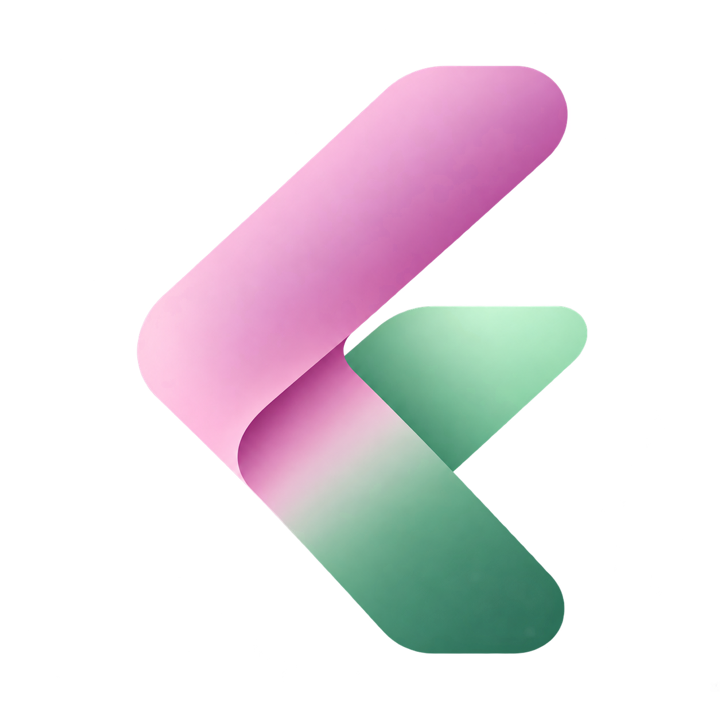
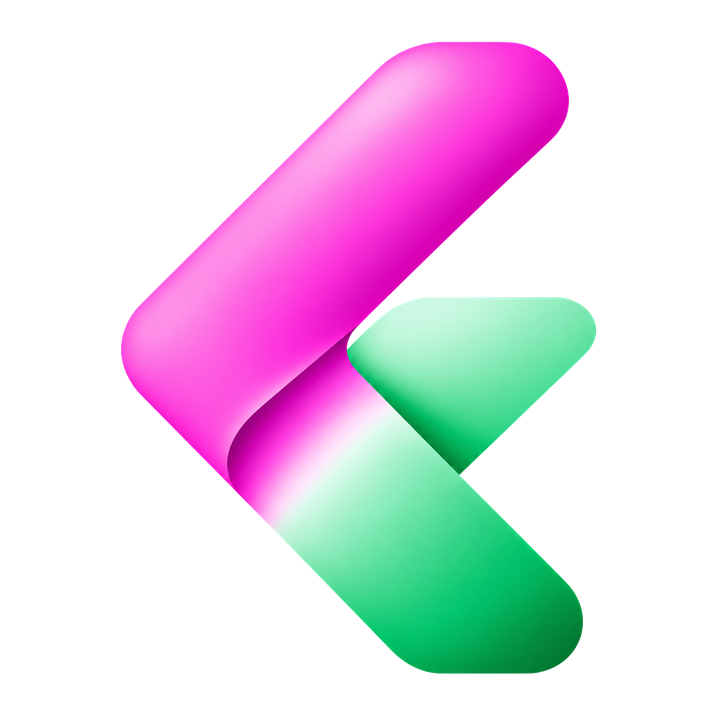
Use final product marks on product, invitation and preview surfaces

diff --git a/knowi/index.html b/knowi/index.html
@@ -7,9 +7,9 @@
 <meta name="twitter:title" content="KNOWI – Wissen testen, lernen und vergleichen">
 <meta name="twitter:description" content="Teste dein Wissen, lerne dazu und vergleiche dich mit anderen.">
 <meta name="twitter:image:alt" content="KNOWI – Quiz und Wissen.">
-<link rel="apple-touch-icon" href="../assets/images/knowi-mark.png">
-</head><body>
-<a class="skip-link" href="#main">Zum Inhalt</a><header class="site-header"><nav class="nav shell" aria-label="Hauptnavigation"><a class="brand" href="./">KNOWI</a><button class="menu-button" type="button" aria-expanded="false" aria-controls="nav-links">Menü</button><ul class="nav-links" id="nav-links"><li><a href="../#apps" aria-current="page">Apps</a></li><li><a href="../support/">Support</a></li><li><a href="../privacy/">Datenschutz</a></li><li><a href="../imprint/">Impressum</a></li></ul></nav></header>
+
+<link rel="apple-touch-icon" href="/assets/images/knowi-touch.png"></head><body>
+<a class="skip-link" href="#main">Zum Inhalt</a><header class="site-header"><nav class="nav shell" aria-label="Hauptnavigation"><a class="brand" href="./"><img src="../assets/images/knowi-mark.png" width="32" height="32" alt="">KNOWI</a><button class="menu-button" type="button" aria-expanded="false" aria-controls="nav-links">Menü</button><ul class="nav-links" id="nav-links"><li><a href="../#apps" aria-current="page">Apps</a></li><li><a href="../support/">Support</a></li><li><a href="../privacy/">Datenschutz</a></li><li><a href="../imprint/">Impressum</a></li></ul></nav></header>
 <main id="main"><section class="product-hero"><div class="shell product-layout"><div><p class="eyebrow">Quiz &amp; Wissen</p><h1>KNOWI</h1><p class="tagline">Wissen testen, lernen und mit anderen vergleichen.</p><p class="lead">KNOWI bringt Quizfragen, persönliche Lernfortschritte und spielerische Herausforderungen an einen Ort – für alle, die neugierig bleiben möchten.</p><div class="store-row" aria-label="Verfügbarkeit"><a class="button" href="https://apps.apple.com/us/app/knowi-quiz-wissen/id6817281226">Im App Store laden</a><a class="button" href="https://play.google.com/store/apps/details?id=de.jmapps.knowi">Bei Google Play laden</a></div></div><img class="product-mark" src="../assets/images/knowi-mark.png" width="720" height="720" decoding="async" fetchpriority="high" alt="KNOWI Bildmarke"></div></section>
 <section class="section feature-section"><div class="shell"><div class="section-heading"><h2>Entdecken und dranbleiben</h2><p>Kurze Runden, persönlicher Fortschritt und Wissen, das gemeinsam noch mehr Spaß macht.</p></div><div class="feature-grid"><article class="feature-card"><h3>Quiz &amp; Wissen</h3><p>Das eigene Wissen testen und dabei spielerisch Neues entdecken.</p></article><article class="feature-card"><h3>Daily Challenge</h3><p>Eine tägliche Herausforderung für eine kleine Portion Wissen zwischendurch.</p></article><article class="feature-card"><h3>Fortschritt</h3><p>Die eigene Entwicklung im Blick behalten und Erfolge sichtbar machen.</p></article><article class="feature-card"><h3>Freunde &amp; Duelle</h3><p>Wissen mit anderen vergleichen und gemeinsam Herausforderungen erleben.</p></article><article class="feature-card"><h3>Karteikarten</h3><p>Inhalte gezielt wiederholen und im eigenen Tempo festigen.</p></article><article class="feature-card"><h3>KNOWI Kids</h3><p>Ein kindgerechter Bereich für junge Wissensentdeckerinnen und -entdecker.</p></article></div></div></section><section class="section feature-section" aria-labelledby="gemeinsam-title"><div class="shell"><div class="section-heading"><p class="eyebrow">Vorschau auf KNOWI 1.4.1</p><h2 id="gemeinsam-title">Mehr zusammen machen</h2><p>Die nächste Version erweitert KNOWI um private Gruppen und einen verbesserten Karteikartenimport. Die Verfügbarkeit im Store folgt mit der Veröffentlichung von Version 1.4.1.</p></div><div class="feature-grid"><article class="feature-card"><h3>Gemeinsam</h3><p>In Lerngruppen Wissen teilen, zusammen quizzen, abstimmen oder eine Wichtelrunde organisieren. Ein persönlicher Einladungslink macht den Beitritt einfach.</p></article><article class="feature-card"><h3>Zufallsgenerator</h3><p>Namen ziehen, Reihenfolgen festlegen und Teams bilden – direkt in KNOWI.</p></article><article class="feature-card"><h3>Karteikarten importieren</h3><p>Eigene Lerninhalte vor dem Übernehmen prüfen, Fehler erkennen und passende Karten in deine Sammlung aufnehmen.</p></article></div></div></section></main>
-<footer class="site-footer"><div class="footer-inner shell"><div><a class="brand" href="./">KNOWI</a><div class="footer-meta">© <span data-current-year>2026</span> KNOWI</div></div><ul class="footer-links"><li><a href="../#apps">Apps</a></li><li><a href="../support/">Support</a></li><li><a href="../privacy/">Datenschutz</a></li><li><a href="../terms/">Nutzungsbedingungen</a></li><li><a href="../account-deletion/">Account löschen</a></li><li><a href="../imprint/">Impressum</a></li></ul></div></footer></body></html>
+<footer class="site-footer"><div class="footer-inner shell"><div><a class="brand" href="./"><img src="../assets/images/knowi-mark.png" width="32" height="32" alt="">KNOWI</a><div class="footer-meta">© <span data-current-year>2026</span> KNOWI</div></div><ul class="footer-links"><li><a href="../#apps">Apps</a></li><li><a href="../support/">Support</a></li><li><a href="../privacy/">Datenschutz</a></li><li><a href="../terms/">Nutzungsbedingungen</a></li><li><a href="../account-deletion/">Account löschen</a></li><li><a href="../imprint/">Impressum</a></li></ul></div></footer></body></html>

diff --git a/talumi/index.html b/talumi/index.html
@@ -7,9 +7,9 @@
 <meta name="twitter:title" content="TALUMI – Talk. Play. Connect.">
 <meta name="twitter:description" content="Gemeinsam reden, spielen und sich besser kennenlernen.">
 <meta name="twitter:image:alt" content="TALUMI – Gespräche und gemeinsame Momente.">
-<link rel="apple-touch-icon" href="../assets/images/talumi-mark.png">
-</head><body>
-<a class="skip-link" href="#main">Zum Inhalt</a><header class="site-header"><nav class="nav shell" aria-label="Hauptnavigation"><a class="brand" href="./">TALUMI</a><button class="menu-button" type="button" aria-expanded="false" aria-controls="nav-links">Menü</button><ul class="nav-links" id="nav-links"><li><a href="../#apps" aria-current="page">Apps</a></li><li><a href="../support/">Support</a></li><li><a href="../privacy/">Datenschutz</a></li><li><a href="../imprint/">Impressum</a></li></ul></nav></header>
+
+<link rel="apple-touch-icon" href="/assets/images/talumi-touch.png"></head><body>
+<a class="skip-link" href="#main">Zum Inhalt</a><header class="site-header"><nav class="nav shell" aria-label="Hauptnavigation"><a class="brand" href="./"><img src="../assets/images/talumi-mark.png" width="32" height="32" alt="">TALUMI</a><button class="menu-button" type="button" aria-expanded="false" aria-controls="nav-links">Menü</button><ul class="nav-links" id="nav-links"><li><a href="../#apps" aria-current="page">Apps</a></li><li><a href="../support/">Support</a></li><li><a href="../privacy/">Datenschutz</a></li><li><a href="../imprint/">Impressum</a></li></ul></nav></header>
 <main id="main"><section class="product-hero"><div class="shell product-layout"><div><p class="eyebrow">Talk. Play. Connect.</p><h1>TALUMI</h1><p class="tagline">Gemeinsam reden, spielen und sich besser kennenlernen.</p><p class="lead">TALUMI schafft Raum für gute Gespräche und gemeinsame Momente – beim Date, mit dem Partner, unter Freunden, in der Gruppe oder unterwegs auf Reisen.</p><div class="store-row" aria-label="Verfügbarkeit"><a class="button" href="https://apps.apple.com/us/app/talumi-gemeinsam-reden/id6817282136">Im App Store laden</a><a class="button" href="https://play.google.com/store/apps/details?id=de.jmapps.talumi">Bei Google Play laden</a></div></div><img class="product-mark" src="../assets/images/talumi-mark.png" width="720" height="720" decoding="async" fetchpriority="high" alt="TALUMI Bildmarke"></div></section>
 <section class="section feature-section"><div class="shell"><div class="section-heading"><h2>Momente, die verbinden</h2><p>Gesprächsimpulse, soziale Spiele und gemeinsame Runden für unterschiedliche Situationen.</p></div><div class="feature-grid"><article class="feature-card"><h3>Kennenlernen</h3><p>Leichte Impulse, um auf natürliche Weise ins Gespräch zu kommen.</p></article><article class="feature-card"><h3>Tiefer reden</h3><p>Fragen, die neue Perspektiven öffnen und Gespräche vertiefen.</p></article><article class="feature-card"><h3>Gruppe &amp; Party</h3><p>Gemeinsame Spiele und Gesprächsrunden für Freunde und Gruppen.</p></article><article class="feature-card"><h3>Unterwegs &amp; auf Reisen</h3><p>Ideen für Wartezeiten, lange Fahrten und besondere Reiseerlebnisse.</p></article><article class="feature-card"><h3>Gemeinsam verbinden</h3><p>Mit Talumi Together gemeinsame Runden erleben und näher zusammenfinden.</p></article></div></div></section></main>
-<footer class="site-footer"><div class="footer-inner shell"><div><a class="brand" href="./">TALUMI</a><div class="footer-meta">© <span data-current-year>2026</span> TALUMI</div></div><ul class="footer-links"><li><a href="../#apps">Apps</a></li><li><a href="../support/">Support</a></li><li><a href="../privacy/">Datenschutz</a></li><li><a href="../terms/">Nutzungsbedingungen</a></li><li><a href="../account-deletion/">Account löschen</a></li><li><a href="../imprint/">Impressum</a></li></ul></div></footer></body></html>
+<footer class="site-footer"><div class="footer-inner shell"><div><a class="brand" href="./"><img src="../assets/images/talumi-mark.png" width="32" height="32" alt="">TALUMI</a><div class="footer-meta">© <span data-current-year>2026</span> TALUMI</div></div><ul class="footer-links"><li><a href="../#apps">Apps</a></li><li><a href="../support/">Support</a></li><li><a href="../privacy/">Datenschutz</a></li><li><a href="../terms/">Nutzungsbedingungen</a></li><li><a href="../account-deletion/">Account löschen</a></li><li><a href="../imprint/">Impressum</a></li></ul></div></footer></body></html>

diff --git a/talumi/invite/index.html b/talumi/invite/index.html
@@ -1,4 +1,4 @@
-<!doctype html><html lang="de"><head><meta charset="utf-8"><meta name="viewport" content="width=device-width, initial-scale=1"><meta name="referrer" content="no-referrer"><title>Eine Einladung zu TALUMI</title><link rel="canonical" href="https://jm-apps.de/talumi/invite/"><meta name="description" content="Eine persönliche Einladung, öffentliche Fragen mit TALUMI zu entdecken."><meta property="og:title" content="Eine Einladung zu TALUMI"><meta property="og:description" content="Öffne die geteilten Fragen in der App."><meta property="og:url" content="https://jm-apps.de/talumi/invite/"><meta name="robots" content="noindex"><meta name="apple-itunes-app" content="app-id=6817282136"><meta property="og:image" content="https://jm-apps.de/assets/images/talumi-mark.png"><link rel="stylesheet" href="/talumi/gruppe/invitation.css?v=2"><script src="/assets/js/invitation-downloads.js" defer></script><script src="/assets/js/referral.js" defer></script></head><body><main>
+<!doctype html><html lang="de"><head><meta charset="utf-8"><meta name="viewport" content="width=device-width, initial-scale=1"><meta name="referrer" content="no-referrer"><title>Eine Einladung zu TALUMI</title><link rel="canonical" href="https://jm-apps.de/talumi/invite/"><meta name="description" content="Eine persönliche Einladung, öffentliche Fragen mit TALUMI zu entdecken."><meta property="og:title" content="Eine Einladung zu TALUMI"><meta property="og:description" content="Öffne die geteilten Fragen in der App."><meta property="og:url" content="https://jm-apps.de/talumi/invite/"><meta name="robots" content="noindex"><meta name="apple-itunes-app" content="app-id=6817282136"><meta property="og:image" content="https://jm-apps.de/assets/images/talumi-mark.png"><link rel="stylesheet" href="/talumi/gruppe/invitation.css?v=2"><script src="/assets/js/invitation-downloads.js" defer></script><script src="/assets/js/referral.js" defer></script><link rel="icon" type="image/png" href="/assets/images/talumi-mark.png"><link rel="apple-touch-icon" href="/assets/images/talumi-touch.png"></head><body><main>
 <img class="brand" src="/assets/images/talumi-mark.png" alt="TALUMI" width="84" height="84">
 <p class="eyebrow">GEMEINSAM MIT TALUMI</p><h1>Du bist eingeladen.</h1>
 <section aria-label="Deine Einladung"><h2>Kommt ins Gespräch.</h2>

diff --git a/knowi/invite/index.html b/knowi/invite/index.html
@@ -1,4 +1,4 @@
-<!doctype html><html lang="de"><head><meta charset="utf-8"><meta name="viewport" content="width=device-width, initial-scale=1"><meta name="referrer" content="no-referrer"><title>Eine Einladung zu KNOWI</title><link rel="canonical" href="https://jm-apps.de/knowi/invite/"><meta name="description" content="Eine persönliche Einladung, öffentliche Fragen mit KNOWI zu entdecken."><meta property="og:title" content="Eine Einladung zu KNOWI"><meta property="og:description" content="Öffne die geteilten Fragen in der App."><meta property="og:url" content="https://jm-apps.de/knowi/invite/"><meta name="robots" content="noindex"><meta name="apple-itunes-app" content="app-id=6817281226"><meta property="og:image" content="https://jm-apps.de/assets/images/knowi-mark.png"><link rel="stylesheet" href="/knowi/gruppe/invitation.css?v=2"><script src="/assets/js/invitation-downloads.js" defer></script><script src="/assets/js/referral.js" defer></script></head><body><main>
+<!doctype html><html lang="de"><head><meta charset="utf-8"><meta name="viewport" content="width=device-width, initial-scale=1"><meta name="referrer" content="no-referrer"><title>Eine Einladung zu KNOWI</title><link rel="canonical" href="https://jm-apps.de/knowi/invite/"><meta name="description" content="Eine persönliche Einladung, öffentliche Fragen mit KNOWI zu entdecken."><meta property="og:title" content="Eine Einladung zu KNOWI"><meta property="og:description" content="Öffne die geteilten Fragen in der App."><meta property="og:url" content="https://jm-apps.de/knowi/invite/"><meta name="robots" content="noindex"><meta name="apple-itunes-app" content="app-id=6817281226"><meta property="og:image" content="https://jm-apps.de/assets/images/knowi-mark.png"><link rel="stylesheet" href="/knowi/gruppe/invitation.css?v=2"><script src="/assets/js/invitation-downloads.js" defer></script><script src="/assets/js/referral.js" defer></script><link rel="icon" type="image/png" href="/assets/images/knowi-mark.png"><link rel="apple-touch-icon" href="/assets/images/knowi-touch.png"></head><body><main>
 <img class="brand" src="/assets/images/knowi-mark.png" alt="KNOWI" width="84" height="84">
 <p class="eyebrow">GEMEINSAM MIT KNOWI</p><h1>Du bist eingeladen.</h1>
 <section aria-label="Deine Einladung"><h2>Teste dein Wissen.</h2>

diff --git a/knowi/oeffnen/index.html b/knowi/oeffnen/index.html
@@ -1,4 +1,4 @@
-<!doctype html><html lang="de"><head><meta charset="utf-8"><meta name="viewport" content="width=device-width, initial-scale=1"><meta name="referrer" content="no-referrer"><title>Eine Einladung zu KNOWI</title><link rel="canonical" href="https://jm-apps.de/knowi/oeffnen/"><meta name="description" content="Eine persönliche Einladung, öffentliche Fragen mit KNOWI zu entdecken."><meta property="og:title" content="Eine Einladung zu KNOWI"><meta property="og:description" content="Öffne die geteilten Fragen in der App."><meta property="og:url" content="https://jm-apps.de/knowi/oeffnen/"><meta name="robots" content="noindex"><meta name="apple-itunes-app" content="app-id=6817281226"><meta property="og:image" content="https://jm-apps.de/assets/images/knowi-mark.png"><link rel="stylesheet" href="/knowi/gruppe/invitation.css?v=2"><script src="/assets/js/invitation-downloads.js" defer></script><script src="open.js" defer></script></head><body><main>
+<!doctype html><html lang="de"><head><meta charset="utf-8"><meta name="viewport" content="width=device-width, initial-scale=1"><meta name="referrer" content="no-referrer"><title>Eine Einladung zu KNOWI</title><link rel="canonical" href="https://jm-apps.de/knowi/oeffnen/"><meta name="description" content="Eine persönliche Einladung, öffentliche Fragen mit KNOWI zu entdecken."><meta property="og:title" content="Eine Einladung zu KNOWI"><meta property="og:description" content="Öffne die geteilten Fragen in der App."><meta property="og:url" content="https://jm-apps.de/knowi/oeffnen/"><meta name="robots" content="noindex"><meta name="apple-itunes-app" content="app-id=6817281226"><meta property="og:image" content="https://jm-apps.de/assets/images/knowi-mark.png"><link rel="stylesheet" href="/knowi/gruppe/invitation.css?v=2"><script src="/assets/js/invitation-downloads.js" defer></script><script src="open.js" defer></script><link rel="icon" type="image/png" href="/assets/images/knowi-mark.png"><link rel="apple-touch-icon" href="/assets/images/knowi-touch.png"></head><body><main>
 <img class="brand" src="/assets/images/knowi-mark.png" alt="KNOWI" width="84" height="84">
 <p class="eyebrow">GEMEINSAM MIT KNOWI</p><h1>Du bist eingeladen.</h1>
 <section aria-label="Deine Einladung"><h2 id="content-title">Weiter mit KNOWI</h2>

diff --git a/talumi/join/index.html b/talumi/join/index.html
@@ -14,7 +14,7 @@
 <link rel="icon" href="/assets/images/talumi-mark.png" type="image/png">
 <meta name="twitter:card" content="summary"><meta name="twitter:title" content="Du bist eingeladen · TALUMI"><meta name="twitter:description" content="Gemeinsam spielen und ins Gespräch kommen."><meta name="twitter:image" content="https://jm-apps.de/assets/images/talumi-mark.png">
 <meta property="og:image:alt" content="TALUMI"><link rel="stylesheet" href="../gruppe/invitation.css?v=3"><script src="join.js?v=3" defer></script>
-</head>
+<link rel="apple-touch-icon" href="/assets/images/talumi-touch.png"></head>
 <body><main>
 <img class="brand" src="https://jm-apps.de/assets/images/talumi-mark.png" alt="TALUMI" width="84" height="84">
 <p class="eyebrow">GEMEINSAM MIT TALUMI</p><h1>Du bist eingeladen.</h1>

diff --git a/talumi/gruppe/index.html b/talumi/gruppe/index.html
@@ -14,7 +14,7 @@
 <link rel="icon" href="/assets/images/talumi-mark.png" type="image/png">
 <meta name="twitter:card" content="summary"><meta name="twitter:title" content="Du bist eingeladen · TALUMI"><meta name="twitter:description" content="Gemeinsam wichteln und Freude schenken."><meta name="twitter:image" content="https://jm-apps.de/assets/images/talumi-mark.png">
 <meta property="og:image:alt" content="TALUMI"><link rel="stylesheet" href="invitation.css?v=3"><script src="invitation.js?v=3" defer></script>
-</head>
+<link rel="apple-touch-icon" href="/assets/images/talumi-touch.png"></head>
 <body><main>
 <img class="brand" src="https://jm-apps.de/assets/images/talumi-mark.png" alt="TALUMI" width="84" height="84">
 <p class="eyebrow">GEMEINSAM MIT TALUMI</p><h1>Du bist eingeladen.</h1>

diff --git a/knowi/gruppe/index.html b/knowi/gruppe/index.html
@@ -12,7 +12,7 @@
 <meta property="og:image" content="https://jm-apps.de/assets/images/knowi-mark.png">
 <meta property="og:url" content="https://jm-apps.de/knowi/gruppe/">
 <link rel="stylesheet" href="invitation.css?v=3"><script src="invitation.js?v=3" defer></script>
-</head>
+<link rel="icon" type="image/png" href="/assets/images/knowi-mark.png"><link rel="apple-touch-icon" href="/assets/images/knowi-touch.png"></head>
 <body><main>
 <img class="brand" src="https://jm-apps.de/assets/images/knowi-mark.png" alt="KNOWI" width="84" height="84">
 <p class="eyebrow">GEMEINSAM MIT KNOWI</p><h1>Du bist eingeladen.</h1>
